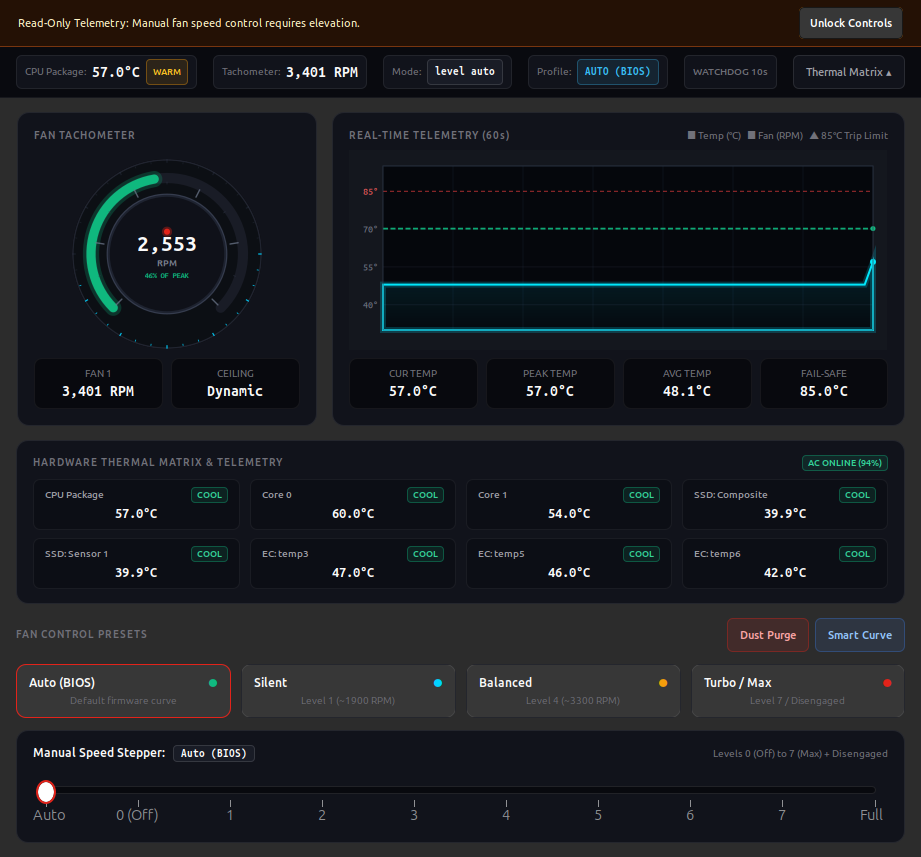
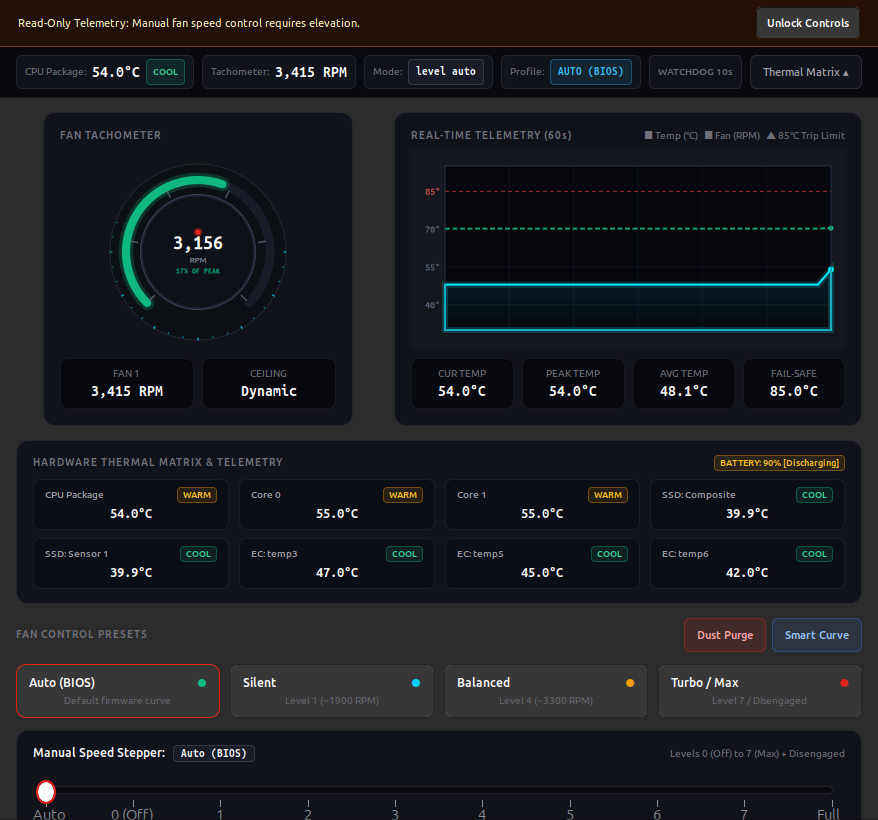
fix: resolve GTK image size ratchet, gauge over-scaling, and add scrolled viewport (v1.1.6)

diff --git a/ui/app_window.py b/ui/app_window.py
@@ -311,6 +311,32 @@ button.btn-header-action:hover {
     border-color: rgba(255, 255, 255, 0.20);
     color: #fafafa;
 }
+
+scrolledwindow {
+    background-color: transparent;
+    border: none;
+}
+
+scrolledwindow overshoot.top,
+scrolledwindow overshoot.bottom {
+    background: none;
+}
+
+scrollbar {
+    background-color: transparent;
+    border: none;
+}
+
+scrollbar slider {
+    background-color: rgba(255, 255, 255, 0.14);
+    border-radius: 4px;
+    min-width: 6px;
+    min-height: 24px;
+}
+
+scrollbar slider:hover {
+    background-color: rgba(255, 255, 255, 0.30);
+}
 """
 
 class AppWindow(Gtk.Window):
@@ -431,7 +457,7 @@ class AppWindow(Gtk.Window):
         self._update_perm_banner()
 
         # 3. Quick Telemetry Bar
-        quickbar = Gtk.Box(orientation=Gtk.Orientation.HORIZONTAL, spacing=16)
+        quickbar = Gtk.Box(orientation=Gtk.Orientation.HORIZONTAL, spacing=8)
         quickbar.get_style_context().add_class("quickbar")
         self.quickbar = quickbar
 
@@ -509,16 +535,22 @@ class AppWindow(Gtk.Window):
         workspace.set_margin_left(16)
         workspace.set_margin_right(16)
         self.workspace = workspace
-        root_vbox.pack_start(workspace, True, True, 0)
+
+        # Wrap workspace in a ScrolledWindow so controls never get clipped off-screen
+        scrolled = Gtk.ScrolledWindow()
+        scrolled.set_policy(Gtk.PolicyType.NEVER, Gtk.PolicyType.AUTOMATIC)
+        scrolled.set_propagate_natural_width(True)
+        scrolled.add(workspace)
+        root_vbox.pack_start(scrolled, True, True, 0)
 
         top_panels = Gtk.Box(orientation=Gtk.Orientation.HORIZONTAL, spacing=14)
-        workspace.pack_start(top_panels, True, True, 0)
+        top_panels.set_hexpand(True)
+        workspace.pack_start(top_panels, False, True, 0)
 
         # Left Panel: Visual Speedometer Gauge Card
         gauge_card = Gtk.Box(orientation=Gtk.Orientation.VERTICAL, spacing=8)
         gauge_card.get_style_context().add_class("panel-card")
-        gauge_card.set_size_request(300, -1)
-        gauge_card.set_vexpand(True)
+        gauge_card.set_size_request(310, -1)
         self.gauge_card = gauge_card
 
         gauge_header = Gtk.Box(orientation=Gtk.Orientation.HORIZONTAL)
@@ -808,11 +840,6 @@ class AppWindow(Gtk.Window):
         if hasattr(self, "quickbar"):
             self.quickbar.set_margin_left(h_margin)
             self.quickbar.set_margin_right(h_margin)
-
-        if hasattr(self, "gauge_card"):
-            available_w = w - (h_margin * 2) - 14
-            gauge_w = max(280, min(750, int(available_w * 0.35)))
-            self.gauge_card.set_size_request(gauge_w, -1)
 
     def _on_toggle_fullscreen(self, btn=None):
         win = self.get_window()

diff --git a/ui/visual_gauge.py b/ui/visual_gauge.py
@@ -29,6 +29,12 @@ class VisualGauge(Gtk.Image):
         self.connect("size-allocate", self._on_size_allocate)
         self.redraw()
 
+    def do_get_preferred_width(self):
+        return (self.min_width, self.min_width)
+
+    def do_get_preferred_height(self):
+        return (self.min_height, self.min_height)
+
     def _on_size_allocate(self, widget, alloc):
         w = max(self.min_width, alloc.width)
         h = max(self.min_height, alloc.height)
@@ -68,9 +74,9 @@ class VisualGauge(Gtk.Image):
         cr.paint()
 
         cx = w / 2.0
-        cy = h / 2.0 + 4.0
-        radius = min(w * 0.40, h * 0.38, 250.0)
-        scale = max(0.85, radius / 75.0)
+        cy = h / 2.0 + 2.0
+        radius = min(w * 0.38, h * 0.36, 125.0)
+        scale = max(0.90, min(1.30, radius / 95.0))
 
         start_angle = math.pi * 0.75
         end_angle = math.pi * 2.25

diff --git a/ui/live_graph.py b/ui/live_graph.py
@@ -35,6 +35,12 @@ class LiveGraph(Gtk.Image):
         self.connect("size-allocate", self._on_size_allocate)
         self.redraw()
 
+    def do_get_preferred_width(self):
+        return (self.min_width, self.min_width)
+
+    def do_get_preferred_height(self):
+        return (self.min_height, self.min_height)
+
     def _on_size_allocate(self, widget, alloc):
         w = max(self.min_width, alloc.width)
         h = max(self.min_height, alloc.height)

diff --git a/backend/__init__.py b/backend/__init__.py
@@ -8,5 +8,5 @@ from .safety_guard import SafetyGuard
 from .curve_engine import SmartCurveEngine
 from .notifier import NotificationManager
 
-__version__ = "1.1.5"
+__version__ = "1.1.6"
 __all__ = ["FanController", "SafetyGuard", "SmartCurveEngine", "NotificationManager", "__version__"]
